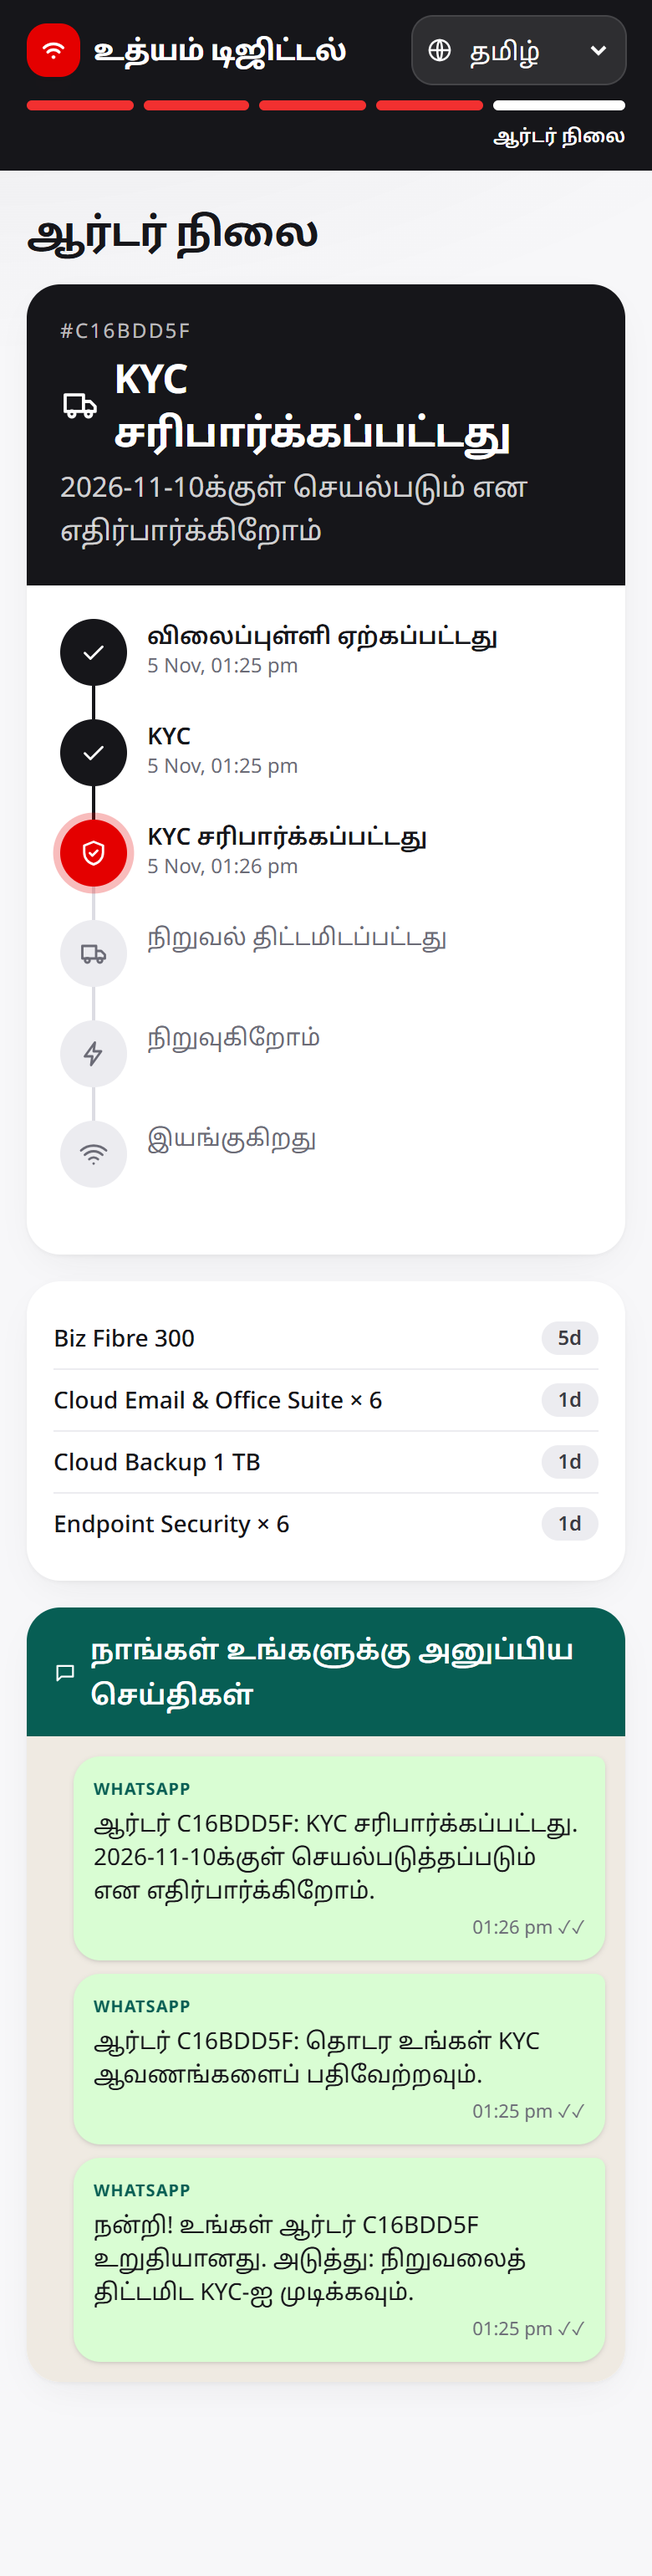
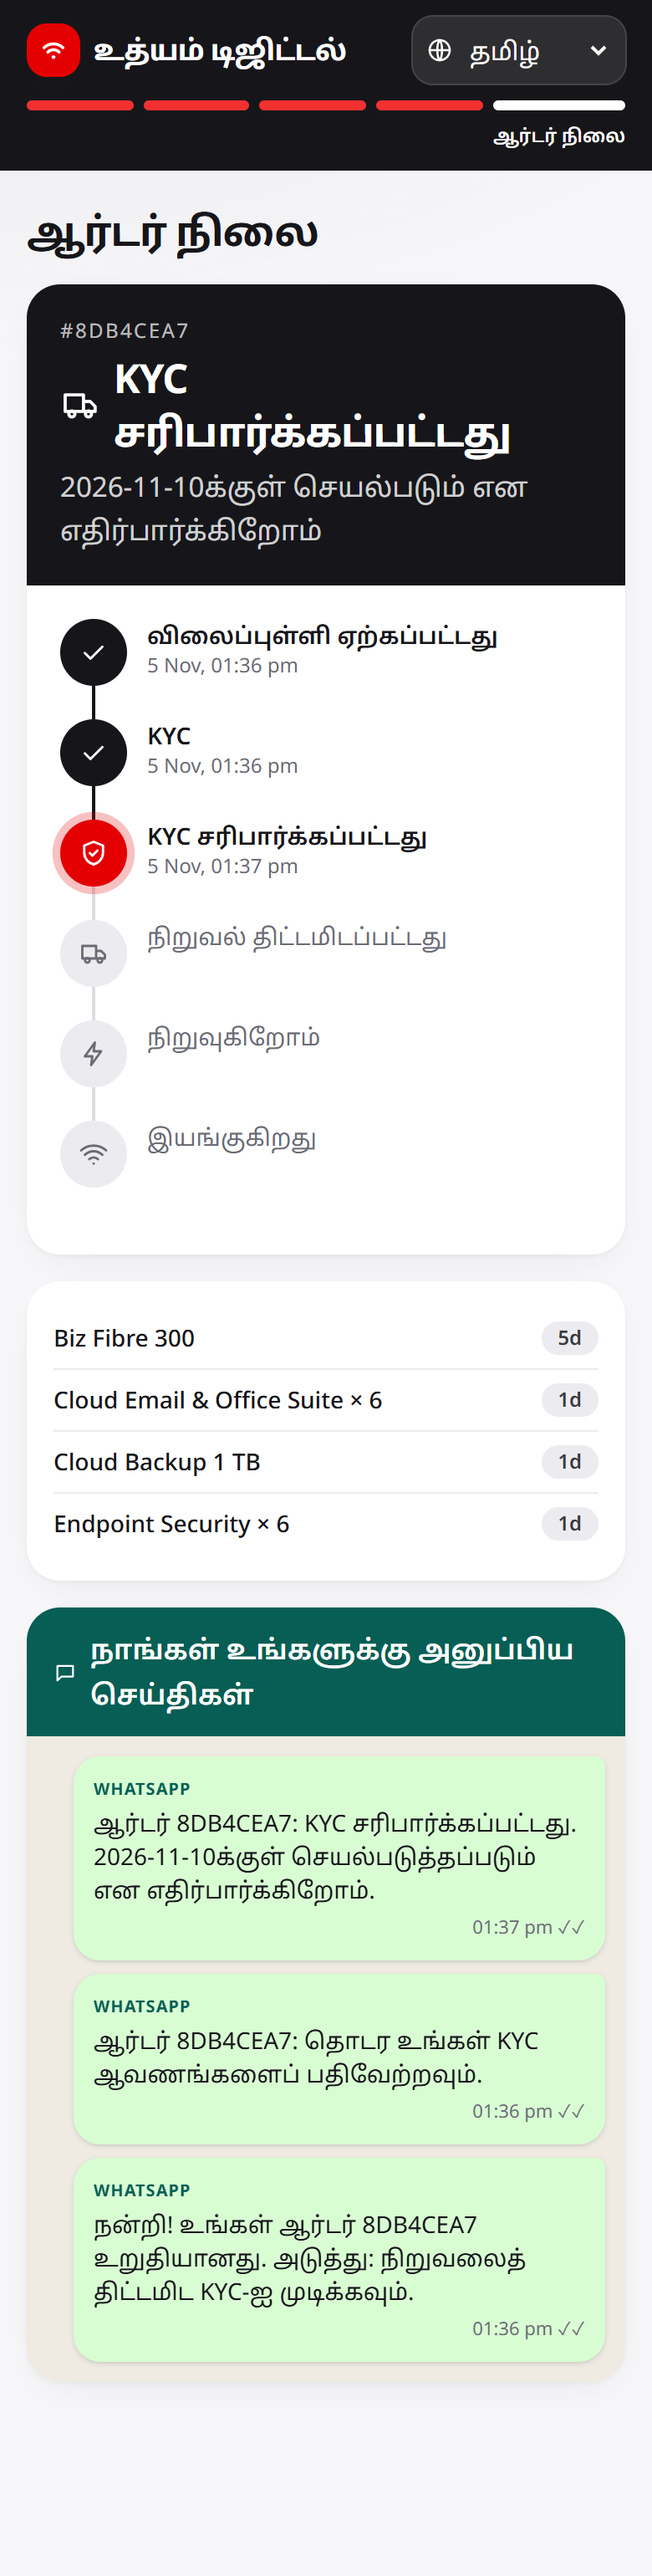
Chat: the message list scrolls inside a fixed-height window, not the page

diff --git a/ts/apps/web/app/chat/page.tsx b/ts/apps/web/app/chat/page.tsx
@@ -30,7 +30,7 @@ export default function ChatPage() {
   const [error, setError] = useState<string | null>(null);
   const [quote, setQuote] = useState<Quote | null>(null);
   const [handedOff, setHandedOff] = useState(false);
-  const endRef = useRef<HTMLDivElement>(null);
+  const listRef = useRef<HTMLOListElement>(null);
 
   // demo owners start with their scenario message ready to send
   useEffect(() => {
@@ -43,9 +43,10 @@ export default function ChatPage() {
     if (ready && j.quoteId && !quote) api.quotes.get(j.quoteId).then(setQuote).catch(() => {});
   }, [ready, j.quoteId, quote]);
 
-  // braces matter: scrollIntoView returns a Promise in current browsers, and React treats a returned value as cleanup
+  // Scroll the message list itself, never the page: the chat window moves, the screen stays put.
   useEffect(() => {
-    endRef.current?.scrollIntoView({ block: "end" });
+    const el = listRef.current;
+    if (el) el.scrollTo({ top: el.scrollHeight, behavior: j.messages.length > 1 ? "smooth" : "auto" });
   }, [j.messages.length, busy]);
 
   async function send(text: string) {
@@ -91,8 +92,8 @@ export default function ChatPage() {
   return (
     <Shell step={0} title={t("stepChat")}>
       <div className="grid gap-4 xl:grid-cols-[1fr_330px]">
-        <Card className="flex min-h-[55vh] flex-col p-3 sm:p-5">
-          <ol className="flex flex-1 flex-col gap-3" aria-live="polite">
+        <Card className={`flex min-h-[420px] flex-col p-3 sm:p-5 ${quote ? "h-[calc(100dvh-19rem)]" : "h-[calc(100dvh-14rem)]"} md:h-[calc(100dvh-13rem)] lg:h-[calc(100dvh-11rem)]`}>
+          <ol ref={listRef} className="-mx-1 flex min-h-0 flex-1 flex-col gap-3 overflow-y-auto overscroll-contain px-1 pb-2" aria-live="polite">
             {j.messages.length === 0 && (
               <li className="flex items-start gap-2">
                 <AdvisorAvatar />
@@ -122,7 +123,6 @@ export default function ChatPage() {
               </li>
             )}
           </ol>
-          <div ref={endRef} />
           {error && <div className="mt-3"><Alert tone="error">{error}</Alert></div>}
           {handedOff && <div className="mt-3" data-testid="handoff-done"><Alert tone="success">{t("handoffDone")}</Alert></div>}
 
